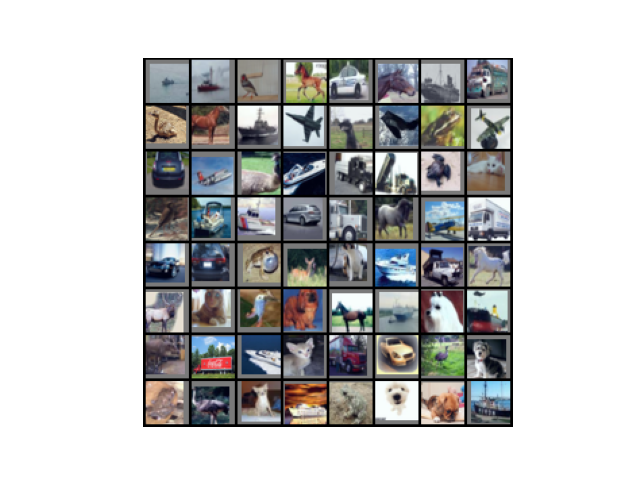
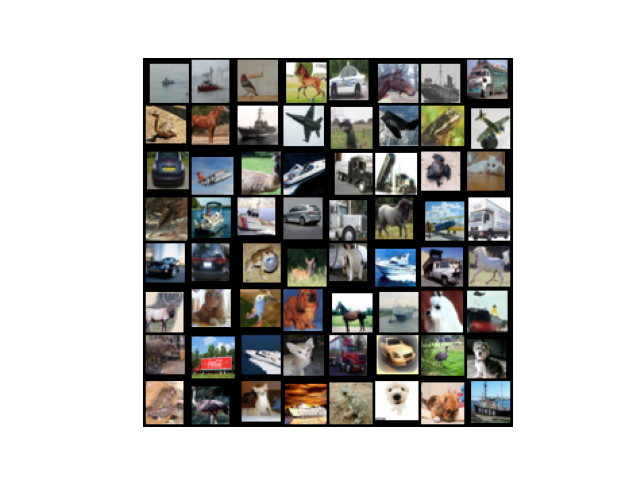
Updates
- Changed few names
- Data in [0,1]
Todo: train again all models

diff --git a/lab1/mydata.py b/lab1/mydata.py
@@ -1,18 +1,24 @@
 """Data loading utilities"""
 
+import sys
 import os
 import random
 
 import torch
 import numpy as np
 from torchvision import datasets
-import torchvision.transforms as transforms
+# import torchvision.transforms as transforms
 from torchvision.transforms import v2
+from torchvision.utils import make_grid
 from torch.utils.data import Dataset, DataLoader
 import matplotlib.pyplot as plt
-from torchvision.utils import make_grid
 
-from lab1.utils.misc_utils import set_seeds
+# Ensure the parent directory is in the path for module imports
+sys.path.append(os.path.dirname(
+    # Add parent directory to path
+    os.path.dirname(os.path.abspath(__file__))))
+
+from lab1.utils.misc import set_seeds
 
 
 class MyMNIST(Dataset):
@@ -24,19 +30,23 @@ class MyMNIST(Dataset):
 
         dataset = datasets.MNIST(
             root="./data", train=train, download=True)
-        X, y = dataset.data, dataset.targets  # tensor, tensor
+        images, labels = dataset.data, dataset.targets  # tensor, tensor
 
         # Prepare data
-        self.X = X.unsqueeze(1) / 255.  # [N, 1, 28, 28] in [0,1]
-        self.y = y  # [N]
+        self.images = images.unsqueeze(1) / 255.  # [N, 1, 28, 28] data in [0,1]
+        self.labels = labels  # [N]
 
         # Normalize data with given mean and std
-        self.mean = torch.tensor([0.130925])
-        self.std = torch.tensor([0.308449])
-        self.X = transforms.Normalize(self.mean, self.std)(self.X)
+        # if you want gaussian data
+        # self.mean = torch.tensor([0.130925])
+        # self.std = torch.tensor([0.308449])
+        # if you want data in [-1,1]
+        # self.mean = torch.tensor([0.5])
+        # self.std = torch.tensor([0.5])
+        # self.X = transforms.Normalize(self.mean, self.std)(self.X)
 
     def __len__(self):
-        return self.X.shape[0]  # 70000
+        return self.images.shape[0]  # 70000
 
     def __getitem__(self, idx):
         """
@@ -44,7 +54,7 @@ class MyMNIST(Dataset):
             X: [C, W, H] (tensor)
             y: [] (tensor)
         """
-        image, target = self.X[idx], self.y[idx]
+        image, target = self.images[idx], self.labels[idx]
         return image, target
 
 
@@ -54,12 +64,12 @@ class MyAugmentedMNIST(MyMNIST):
     def __init__(self, opts):
         super().__init__(opts, train=True)
         self.augmentation_pipeline = v2.Compose([
-            v2.RandomAffine(degrees=15, translate=(
-                0.1, 0.1), scale=(0.9, 1.1)),
+            v2.RandomAffine(
+                degrees=15, translate=(0.1, 0.1), scale=(0.9, 1.1)),
         ])
 
     def __getitem__(self, idx):
-        return self.augmentation_pipeline(self.X[idx]), self.y[idx]
+        return self.augmentation_pipeline(self.images[idx]), self.labels[idx]
 
 
 class MyCIFAR10(Dataset):
@@ -71,22 +81,26 @@ class MyCIFAR10(Dataset):
 
         dataset = datasets.CIFAR10(
             root="./data", train=train, download=True)
-        X, y = dataset.data, dataset.targets  # ndarray, list
+        images, labels = dataset.data, dataset.targets  # ndarray, list
 
         # Prepare data
-        self.X = torch.from_numpy(X).permute(0, 3, 1, 2) / 255.  # [0,1]
+        self.images = torch.from_numpy(images).permute(0, 3, 1, 2) / 255.  # [0,1]
         if crop:
             margin = (32 - 28) // 2
-            self.X = self.X[:, :, margin:-margin, margin:-margin]
-        self.y = torch.tensor(y)
+            self.images = self.images[:, :, margin:-margin, margin:-margin]
+        self.labels = torch.tensor(labels)
 
         # Normalize data with given mean and std
-        self.mean = torch.tensor([0.489255, 0.475775, 0.439889])
-        self.std = torch.tensor([0.243047, 0.239315, 0.255997])
-        self.X = transforms.Normalize(self.mean, self.std)(self.X)
+        # if you want gaussian data
+        # self.mean = torch.tensor([0.489255, 0.475775, 0.439889])
+        # self.std = torch.tensor([0.243047, 0.239315, 0.255997])
+        # if you want data in [-1,1]
+        # self.mean = torch.tensor([0.5, 0.5, 0.5])
+        # self.std = torch.tensor([0.5, 0.5, 0.5])
+        # self.X = transforms.Normalize(self.mean, self.std)(self.X)
 
     def __len__(self):
-        return self.X.shape[0]
+        return self.images.shape[0]
 
     def __getitem__(self, idx):
         """
@@ -94,7 +108,7 @@ class MyCIFAR10(Dataset):
             X: [C, W, H] (tensor)
             y: [] (tensor)
         """
-        image, target = self.X[idx], self.y[idx]
+        image, target = self.images[idx], self.images[idx]
         return image, target
 
 
@@ -109,7 +123,7 @@ class MyAugmentedCIFAR10(MyCIFAR10):
         ])
 
     def __getitem__(self, idx):
-        return self.augmentation_pipeline(self.X[idx]), self.y[idx]
+        return self.augmentation_pipeline(self.images[idx]), self.labels[idx]
 
 
 class MakeDataLoaders:
@@ -164,7 +178,7 @@ def main_mnist(opts):
     std = torch.std(X, dim=(0, 2, 3))  # original data std
     print(f"Dataset size: X={X.shape}, y={y.shape}")
     torch.set_printoptions(precision=6)
-    print(f"Mean: {mean}, Std: {std}")
+    print(f"Mean: {mean}, Std: {std}\nMin: {X.min()}, Max: {X.max()}")
     print()
 
     # Custom datasets
@@ -173,13 +187,13 @@ def main_mnist(opts):
     valset = MyMNIST(opts, train=False)
 
     # Check dataset statistics channel-wise
-    X = torch.cat((trainset_original.X, valset.X))
-    y = torch.cat((trainset_original.y, valset.y))
+    X = torch.cat((trainset_original.images, valset.images))
+    y = torch.cat((trainset_original.labels, valset.labels))
     mean = torch.mean(X, dim=(0, 2, 3))  # original data mean
     std = torch.std(X, dim=(0, 2, 3))  # original data std
     print("MNIST custom datasets")
     print(f"Dataset size: X={X.shape}, y={y.shape}")
-    print(f"Mean: {mean}, Std: {std}")
+    print(f"Mean: {mean}, Std: {std}\nMin: {X.min()}, Max: {X.max()}")
 
     # Data loaders
     mnist_original = MakeDataLoaders(opts, trainset_original, valset)
@@ -189,7 +203,7 @@ def main_mnist(opts):
 
     # Check first batch
     X_orig, y_orig = next(iter(train_loader))
-    X_aug, y_aug = next(iter(train_loader_aug))
+    X_aug, _ = next(iter(train_loader_aug))
     print("Data shape:", f"X={X_orig.shape}", f"y={y_orig.shape}")
 
     # Print first batch
@@ -229,7 +243,7 @@ def main_cifar10(opts):
     std = torch.std(X, dim=(0, 2, 3))  # original data std
     print(f"Dataset size: X={X.shape}, y={y.shape}")
     torch.set_printoptions(precision=6)
-    print(f"Mean: {mean}, Std: {std}")
+    print(f"Mean: {mean}, Std: {std}\nMin: {X.min()}, Max: {X.max()}")
     print()
 
     # Custom datasets
@@ -238,13 +252,13 @@ def main_cifar10(opts):
     valset = MyCIFAR10(opts, train=False)
 
     # Check dataset statistics channel-wise
-    X = torch.cat((trainset_original.X, valset.X))
-    y = torch.cat((trainset_original.y, valset.y))
+    X = torch.cat((trainset_original.images, valset.images))
+    y = torch.cat((trainset_original.labels, valset.labels))
     mean = torch.mean(X, dim=(0, 2, 3))  # original data mean
     std = torch.std(X, dim=(0, 2, 3))  # original data std
     print("CIFAR10 custom datasets")
     print(f"Dataset size: X={X.shape}, y={y.shape}")
-    print(f"Mean: {mean}, Std: {std}")
+    print(f"Mean: {mean}, Std: {std}\nMin: {X.min()}, Max: {X.max()}")
 
     # Data loaders
     cifar10_original = MakeDataLoaders(opts, trainset_original, valset)
@@ -254,7 +268,7 @@ def main_cifar10(opts):
 
     # Check first batch
     X_orig, y_orig = next(iter(train_loader))
-    X_aug, y_aug = next(iter(train_loader_aug))
+    X_aug, _ = next(iter(train_loader_aug))
     print("Data shape:", f"X={X_orig.shape}", f"y={y_orig.shape}")
 
     # Print first batch

diff --git a/lab4/train.py b/lab4/train.py
@@ -14,8 +14,8 @@ sys.path.append(os.path.dirname(
     os.path.dirname(os.path.abspath(__file__))))  # Add parent directory to path
 
 from lab1.utils import LOG, set_seeds
-from lab1.utils.train_utils import N, AverageMeter, save_checkpoint
-from lab1.utils.misc_utils import visualize
+from lab1.utils.train import N, AverageMeter, save_checkpoint
+from lab1.utils.misc import visualize
 from lab4.mydata import get_train_loader
 from lab4.models import AutoEncoder
 

diff --git a/lab1/train.py b/lab1/train.py
@@ -9,8 +9,8 @@ from torch.nn import Module
 from torch.optim import Optimizer
 from torch.optim.lr_scheduler import LRScheduler
 
-from lab1.utils.misc_utils import LOG
-from lab1.utils.train_utils import N, accuracy, save_checkpoint, AverageMeter, EarlyStopping
+from lab1.utils.misc import LOG
+from lab1.utils.train import N, accuracy, save_checkpoint, AverageMeter, EarlyStopping
 
 
 def test(opts, model, loader):

diff --git a/lab1/main_train.py b/lab1/main_train.py
@@ -17,7 +17,7 @@ from lab1.mydata import MyMNIST, MyAugmentedMNIST
 from lab1.mydata import MyCIFAR10, MyAugmentedCIFAR10, MakeDataLoaders
 from lab1.models import build_mlp, build_cnn
 from lab1.train import train_loop
-from lab1.utils.misc_utils import LOG, set_seeds, visualize, compute_flops
+from lab1.utils.misc import LOG, set_seeds, visualize, compute_flops
 
 
 def get_loaders(opts):

diff --git a/lab1/distill.py b/lab1/distill.py
@@ -11,8 +11,8 @@ from torch.optim.lr_scheduler import LRScheduler
 import torch.nn.functional as F
 from tqdm import tqdm
 
-from lab1.utils.misc_utils import LOG
-from lab1.utils.train_utils import N, accuracy, save_checkpoint, AverageMeter
+from lab1.utils.misc import LOG
+from lab1.utils.train import N, accuracy, save_checkpoint, AverageMeter
 from lab1.train import test
 
 

diff --git a/lab1/main_distil.py b/lab1/main_distil.py
@@ -12,7 +12,7 @@ from torch.backends import cudnn
 sys.path.append(os.path.dirname(
     os.path.dirname(os.path.abspath(__file__))))  # Add parent directory to path
 
-from lab1.utils.misc_utils import LOG, set_seeds
+from lab1.utils.misc import LOG, set_seeds
 from lab1.main_train import get_loaders, get_model, get_optimization
 from lab1.distill import train_loop_distill
 

diff --git a/lab4/main_detection.py b/lab4/main_detection.py
@@ -18,7 +18,7 @@ from lab4.utils.detection import compute_scores
 from lab4.models import AutoEncoder
 
 from lab1.main_train import get_model
-from lab1.utils.train_utils import load_checkpoint
+from lab1.utils.train import load_checkpoint
 from lab1.utils import set_seeds, LOG
 
 

diff --git a/lab1/models/__init__.py b/lab1/models/__init__.py
@@ -4,7 +4,7 @@ from lab1.models.mlp import MLP
 from lab1.models.cnn import CNN
 from lab1.models.resnet import ResNet
 from lab1.models.wideresnet import WideResNet
-from lab1.utils.misc_utils import LOG
+from lab1.utils.misc import LOG
 
 
 def build_mlp(opts):

diff --git a/lab1/load_and_eval.py b/lab1/load_and_eval.py
@@ -2,7 +2,7 @@
 
 from main_train import get_loaders, get_model
 from utils import LOG
-from utils.train_utils import load_checkpoint
+from lab1.utils.train import load_checkpoint
 from train import test
 
 

diff --git a/lab1/utils/__init__.py b/lab1/utils/__init__.py
@@ -1,2 +1,2 @@
 
-from lab1.utils.misc_utils import LOG, update_yaml, set_seeds
+from lab1.utils.misc import LOG, update_yaml, set_seeds
